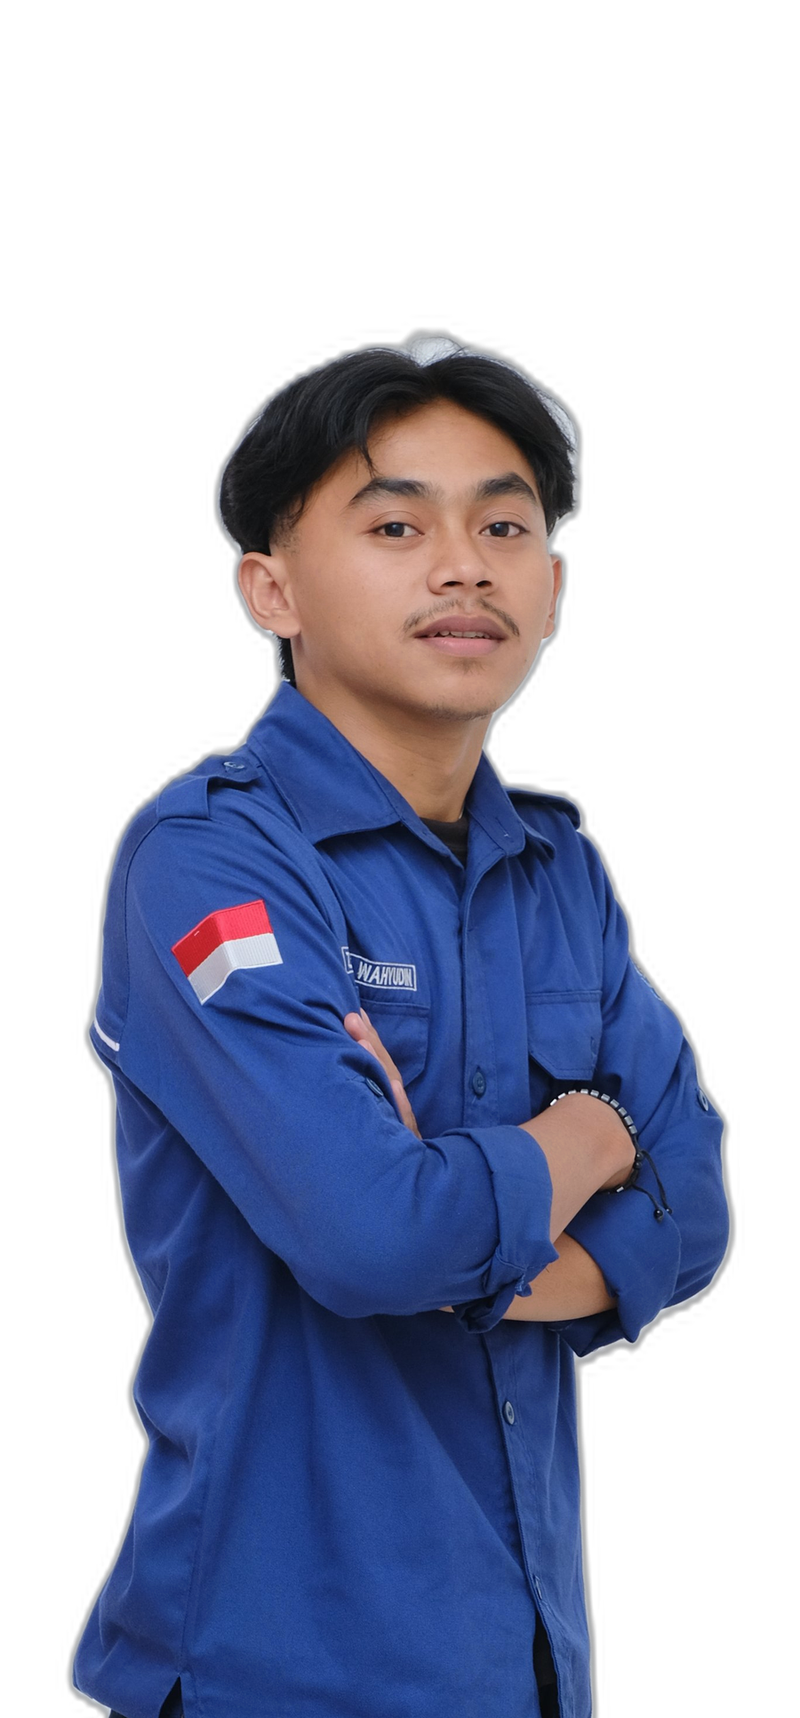
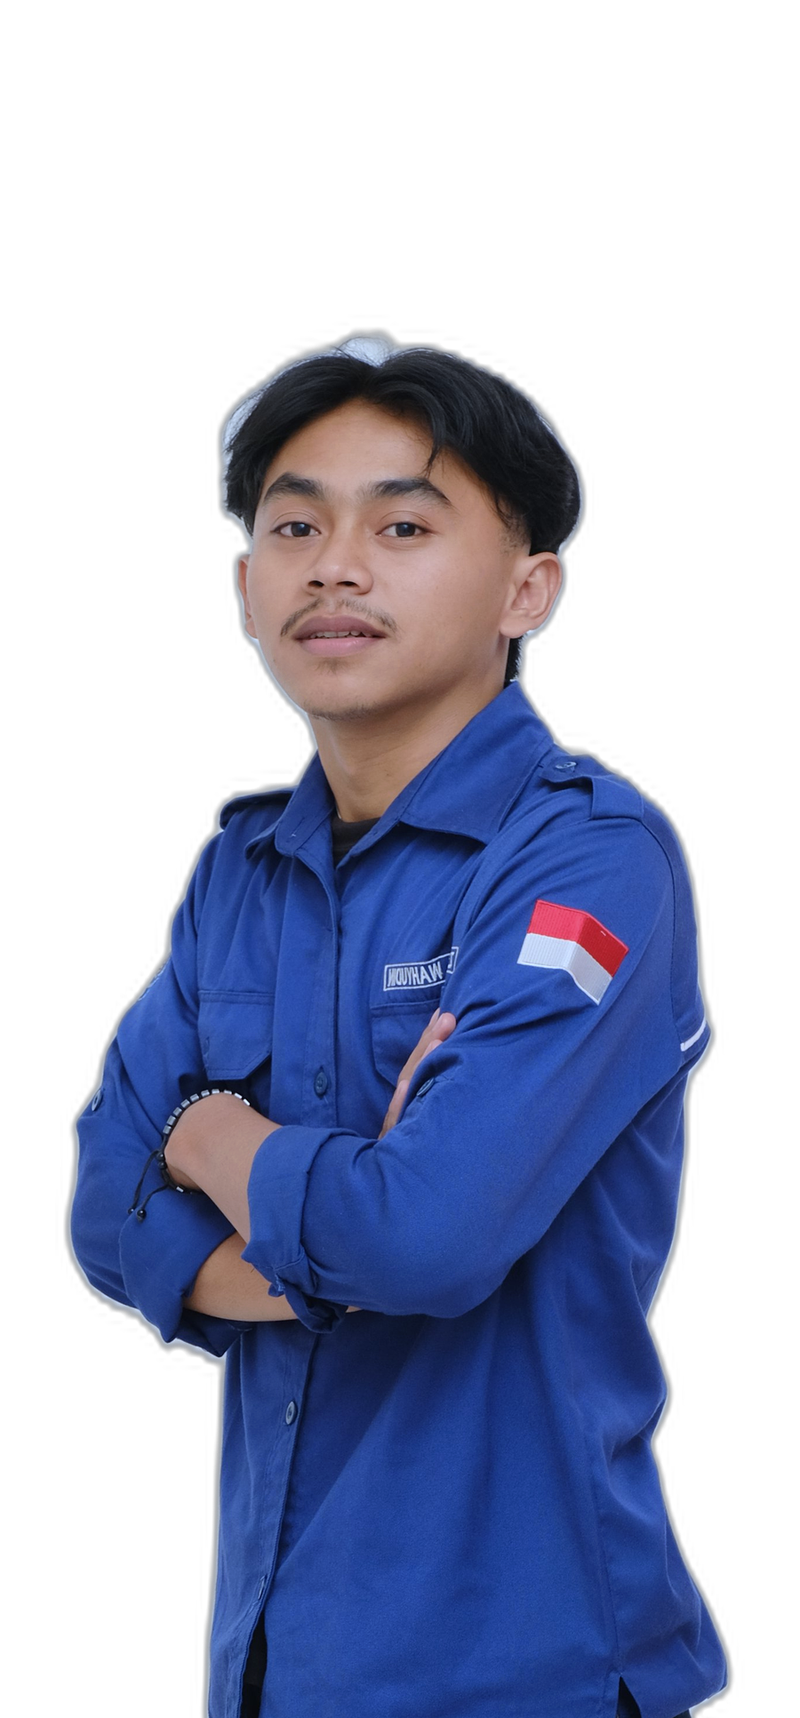
Terapkan masukan desain: H1 value prop, CTA elektrik+outline, glow emas, hapus WA float

diff --git a/css/style.css b/css/style.css
@@ -190,22 +190,32 @@ img.brand-mark { object-fit: cover; }
   letter-spacing: 0.16em; text-transform: uppercase; color: #e4e5ff;
   background: #5b5bd6; border-radius: 999px; padding: 9px 20px; margin: 0 0 24px;
 }
-.hero-name { font-size: clamp(2.6rem, 6.5vw, 4.3rem); font-weight: 800; letter-spacing: -0.02em; margin-bottom: 14px; }
+.hero-eyebrow {
+  font-family: var(--font-mono); font-size: 0.82rem; font-weight: 600;
+  letter-spacing: 0.22em; text-transform: uppercase; color: var(--gold);
+  margin: 0 0 12px;
+}
+.hero-name { font-size: clamp(2rem, 5vw, 3.2rem); font-weight: 800; letter-spacing: -0.02em; margin-bottom: 16px; max-width: 16ch; }
 .hero-tagline { font-size: clamp(1.2rem, 2.8vw, 1.55rem); font-weight: 600; color: var(--text); margin-bottom: 16px; max-width: 24ch; }
-.hero-desc { color: var(--muted); font-size: 1.02rem; max-width: 52ch; margin-bottom: 8px; }
-.hero-desc strong { color: var(--text); }
+.hero-desc { color: #9CA3AF; font-size: 1.02rem; max-width: 52ch; margin-bottom: 8px; }
+.hero-desc strong { color: #e5e7eb; }
 .hero-cta { display: flex; flex-wrap: wrap; gap: 14px; margin: 28px 0 36px; }
-.btn-lavender { background: #b9c0ff; color: #15153a; box-shadow: 0 8px 22px rgba(120, 130, 255, 0.28); }
-.btn-lavender:hover { background: #ccd2ff; transform: translateY(-2px); box-shadow: var(--shadow-lg); }
+.btn-electric { background: #2b6bff; color: #fff; box-shadow: 0 8px 26px rgba(43, 107, 255, 0.42); }
+.btn-electric:hover { background: #4a82ff; transform: translateY(-2px); box-shadow: var(--shadow-lg); }
+.btn-outline {
+  background: transparent; color: var(--text);
+  border: 1px solid rgba(255, 255, 255, 0.35);
+}
+.btn-outline:hover { border-color: var(--gold); color: var(--gold); transform: translateY(-2px); }
 .btn-wa { background: #22c55e; color: #fff; box-shadow: 0 8px 22px rgba(34, 197, 94, 0.3); }
 .btn-wa:hover { background: #1eb356; transform: translateY(-2px); box-shadow: var(--shadow-lg); }
 .hero-stats { display: grid; grid-template-columns: repeat(4, minmax(0, 1fr)); gap: 16px; margin: 0 0 30px; padding: 0; }
 .hstat-num { display: block; font-size: 2rem; font-weight: 800; color: var(--text); font-variant-numeric: tabular-nums; }
 .hstat-label { display: block; font-family: var(--font-mono); font-size: 0.78rem; color: var(--muted); margin-top: 4px; line-height: 1.45; }
-.hero-chips { display: flex; flex-wrap: wrap; gap: 10px; list-style: none; margin: 0; padding: 0; }
+.hero-chips { display: flex; flex-wrap: wrap; gap: 10px; list-style: none; margin: 26px 0 0; padding: 0; }
 .hero-chips li {
-  font-family: var(--font-mono); font-size: 0.8rem; font-weight: 500; color: var(--muted);
-  border: 1px solid var(--border); background: var(--card);
+  font-family: var(--font-mono); font-size: 0.8rem; font-weight: 500; color: #c8cbd4;
+  border: 1px solid rgba(255, 255, 255, 0.12); background: rgba(255, 255, 255, 0.04);
   padding: 9px 17px; border-radius: 999px; cursor: default;
   transition: transform 0.2s ease, border-color 0.2s ease, color 0.2s ease, background-color 0.35s ease;
 }
@@ -215,9 +225,9 @@ img.brand-mark { object-fit: cover; }
 .hero-cutout { position: relative; display: flex; justify-content: center; }
 .hero-cutout::before {
   content: ""; position: absolute; bottom: 0; left: 50%; transform: translateX(-50%);
-  width: min(460px, 90vw); aspect-ratio: 1 / 1; border-radius: 50%;
-  background: radial-gradient(closest-side, rgba(27, 0, 161, 0.55), rgba(106, 77, 255, 0.18) 55%, transparent 72%);
-  filter: blur(16px); pointer-events: none;
+  width: min(420px, 88vw); aspect-ratio: 1 / 1; border-radius: 50%;
+  background: radial-gradient(closest-side, rgba(255, 184, 0, 0.32), rgba(255, 184, 0, 0.07) 55%, transparent 78%);
+  filter: blur(28px); pointer-events: none;
 }
 .hero-cutout img {
   position: relative; display: block;
@@ -429,23 +439,6 @@ img.brand-mark { object-fit: cover; }
 .footer p { margin: 0; color: var(--muted); font-size: 0.88rem; }
 .foot-note i { color: var(--gold); }
 
-/* ---------- WhatsApp float ---------- */
-.wa-float {
-  position: fixed; right: 22px; bottom: 22px; z-index: 90;
-  width: 58px; height: 58px; border-radius: 50%;
-  background: #25d366; color: #fff; font-size: 1.7rem;
-  display: inline-flex; align-items: center; justify-content: center; text-decoration: none;
-  box-shadow: 0 8px 24px rgba(37, 211, 102, 0.45);
-  transition: transform 0.25s ease, box-shadow 0.25s ease;
-  animation: wapulse 2.6s ease-in-out infinite;
-}
-@keyframes wapulse {
-  0%, 100% { box-shadow: 0 8px 24px rgba(37, 211, 102, 0.45); }
-  50% { box-shadow: 0 8px 34px rgba(37, 211, 102, 0.75); }
-}
-.wa-float:hover { transform: scale(1.12) rotate(8deg); animation-play-state: paused; }
-.wa-float:active { transform: scale(0.94); }
-
 /* ---------- Lightbox ---------- */
 .lightbox {
   position: fixed; inset: 0; z-index: 200; display: none;
@@ -531,7 +524,6 @@ img.brand-mark { object-fit: cover; }
   .c-icon { width: 48px; height: 48px; }
   .btn-copy { grid-column: 1 / -1; width: 100%; }
   .footer-inner { flex-direction: column; text-align: center; }
-  .wa-float { right: 16px; bottom: 16px; width: 54px; height: 54px; }
 }
 
 /* ---------- Reduced motion ---------- */

diff --git a/index.html b/index.html
@@ -87,12 +87,12 @@
       <div class="container hero-grid">
         <div class="hero-copy">
           <p class="reveal"><span class="hero-badge">Web Developer • UI Designer</span></p>
-          <h1 class="hero-name reveal">Zaenal Wahyudin</h1>
-          <p class="hero-tagline reveal">Mengubah ide menjadi pengalaman digital yang elegan.</p>
+          <p class="hero-eyebrow reveal">Zaenal Wahyudin</p>
+          <h1 class="hero-name reveal">Membangun Ekosistem Digital Modern untuk UMKM &amp; Institusi</h1>
           <p class="hero-desc reveal">Saya membangun <strong>website dan aplikasi yang cepat, rapi, dan mudah dikelola</strong> — untuk sekolah, pesantren, komunitas, dan UMKM. Dua website institusi yang saya bangun saat ini live dan dipakai setiap hari oleh pengelola dan pengunjungnya.</p>
           <div class="hero-cta reveal">
-            <a href="#portfolio" class="btn btn-lavender ripple">Lihat Proyek <i class="fas fa-arrow-down"></i></a>
-            <a href="https://wa.me/6283895937947?text=Halo%20Zaenal,%20saya%20tertarik%20konsultasi%20project" target="_blank" rel="noopener" class="btn btn-wa ripple"><i class="fab fa-whatsapp"></i>Konsultasi via WhatsApp</a>
+            <a href="#portfolio" class="btn btn-electric ripple">Lihat Proyek <i class="fas fa-arrow-down"></i></a>
+            <a href="https://wa.me/6283895937947?text=Halo%20Zaenal,%20saya%20tertarik%20konsultasi%20project" target="_blank" rel="noopener" class="btn btn-outline ripple">Konsultasi</a>
           </div>
           <div class="hero-stats reveal">
             <div class="hstat"><span class="hstat-num"><span class="counter" data-target="2">0</span>+</span><span class="hstat-label">Tahun pengalaman</span></div>
@@ -347,8 +347,6 @@
         <p class="mono foot-note">dibangun dengan <i class="fas fa-heart"></i> &amp; kopi — yogyakarta, id</p>
       </div>
     </footer>
-
-    <a class="wa-float" href="https://wa.me/6283895937947?text=Halo%20Zaenal,%20saya%20tertarik%20dengan%20portfolio%20Anda" target="_blank" rel="noopener" aria-label="Chat via WhatsApp"><i class="fab fa-whatsapp"></i></a>
 
     <div class="lightbox" id="lightbox" role="dialog" aria-modal="true" aria-label="Pratinjau gambar">
       <button class="lightbox-close" id="lightbox-close" aria-label="Tutup">&times;</button>
